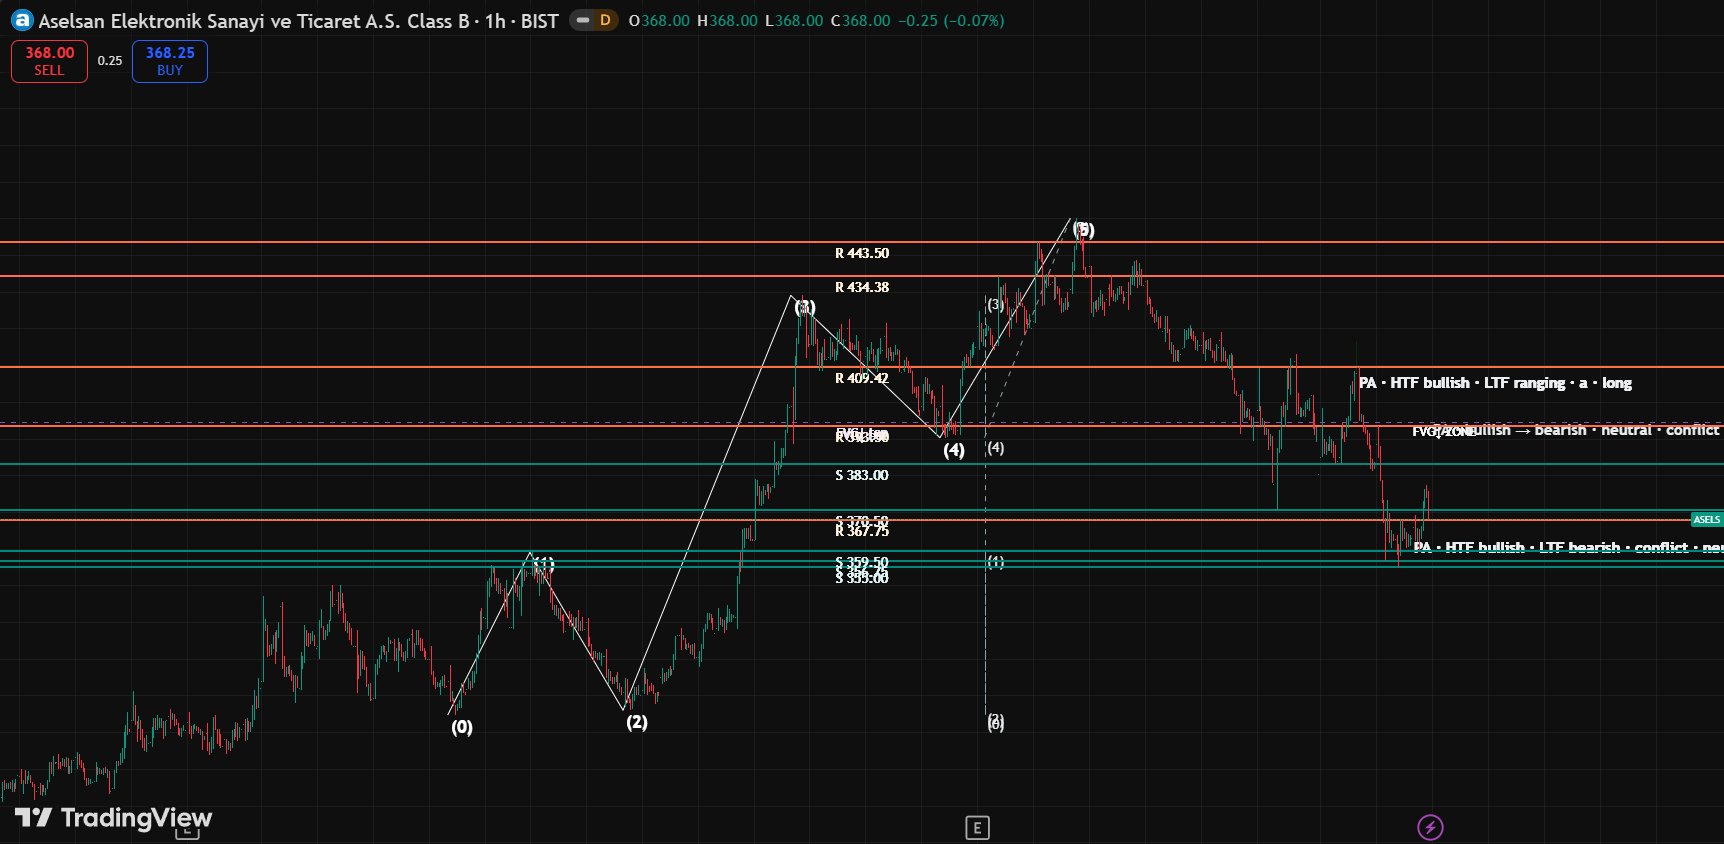
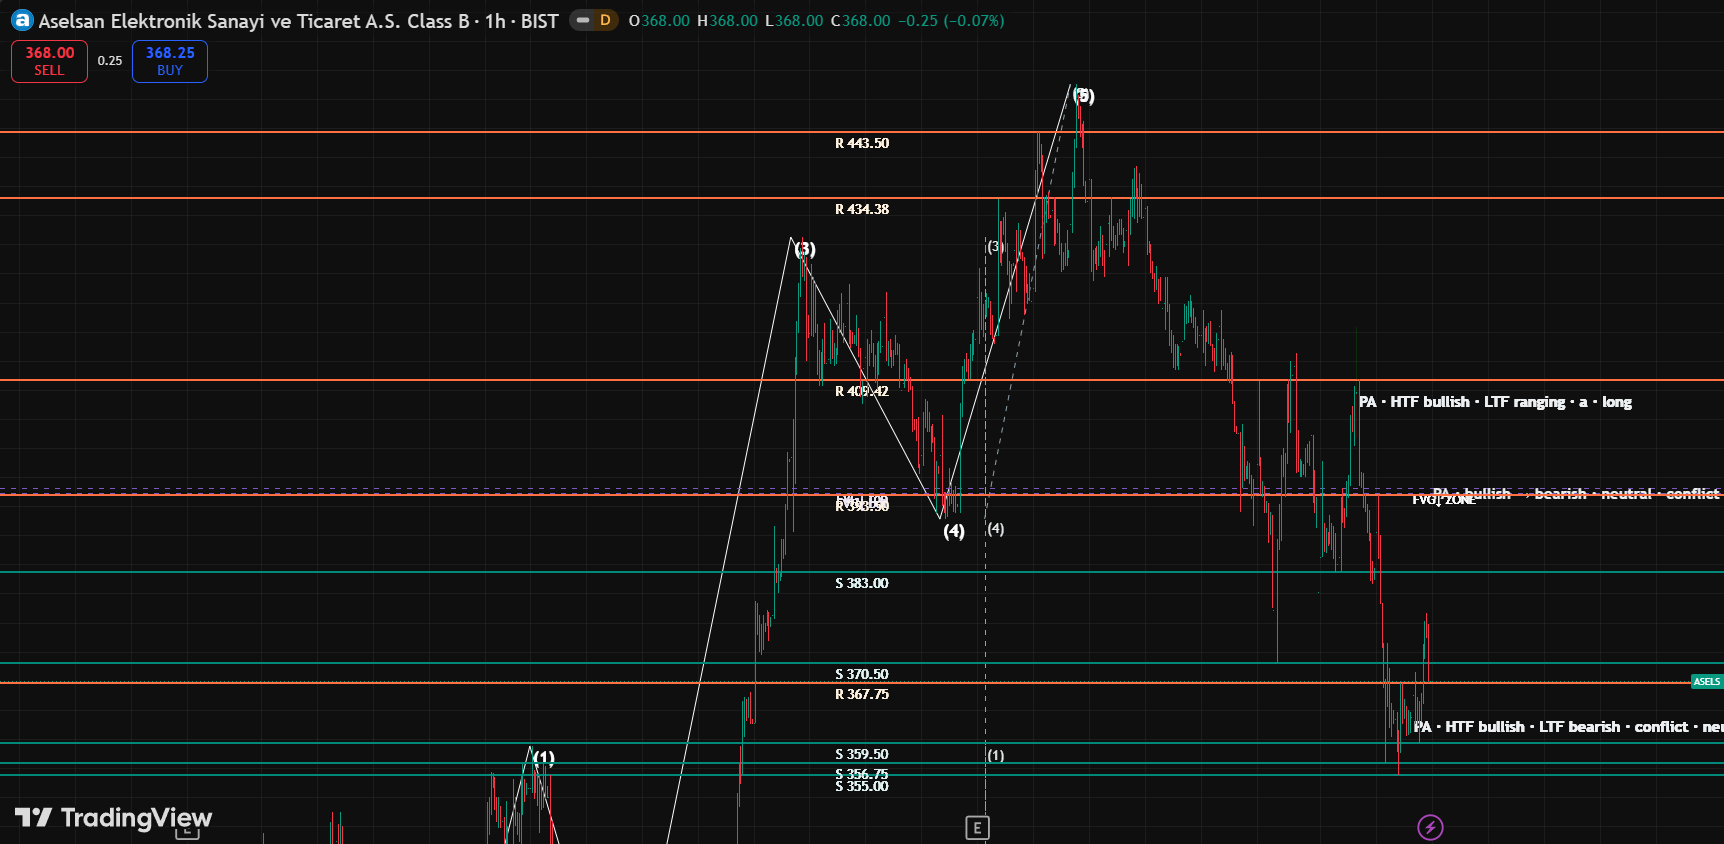
fix(visuals): Zoom in charts for clarity and restore concise text labels for readability

diff --git a/src/bist_trader_mcp/tv_bridge.py b/src/bist_trader_mcp/tv_bridge.py
@@ -538,7 +538,7 @@ def apply_pa_overlay_to_chart(
     for r in resistances:
         px = float(r["price"])
         line = tv_draw_horizontal_line(
-            t_anchor, px, overrides=overrides_json(PA_RESIST_LINE)
+            t_anchor, px, text="Res", overrides=overrides_json(PA_RESIST_LINE)
         )
         out["levels"].append(line)
         time.sleep(0.08)
@@ -546,7 +546,7 @@ def apply_pa_overlay_to_chart(
     for s in supports:
         px = float(s["price"])
         line = tv_draw_horizontal_line(
-            t_anchor, px, overrides=overrides_json(PA_SUPPORT_LINE)
+            t_anchor, px, text="Sup", overrides=overrides_json(PA_SUPPORT_LINE)
         )
         out["levels"].append(line)
         time.sleep(0.08)
@@ -557,13 +557,13 @@ def apply_pa_overlay_to_chart(
         rl = float(range_box["range_low"])
         rm = float(range_box.get("range_mid") or (rh + rl) / 2)
         for px, lbl, style in (
-            (rh, f"RNG H {rh:.2f}", PA_RANGE_HIGH),
-            (rl, f"RNG L {rl:.2f}", PA_RANGE_LOW),
-            (rm, f"EQ {rm:.2f}", PA_RANGE_MID),
+            (rh, "RNG H", PA_RANGE_HIGH),
+            (rl, "RNG L", PA_RANGE_LOW),
+            (rm, "EQ", PA_RANGE_MID),
         ):
             out["levels"].append(
                 tv_draw_horizontal_line(
-                    t_anchor, px, overrides=overrides_json(style)
+                    t_anchor, px, text=lbl, overrides=overrides_json(style)
                 )
             )
             time.sleep(0.06)

diff --git a/scripts/capture_linkedin_screenshots.py b/scripts/capture_linkedin_screenshots.py
@@ -82,10 +82,15 @@ def demo_draw(
     from bist_trader_mcp.market_profiles import resolve_assistant_config
     from bist_trader_mcp.tv_bridge import apply_scenario_to_chart, build_demo_position_plan
     from bist_trader_mcp.tv_tools import (
+        tv_apply_overrides,
         tv_fetch_mtf_ohlcv,
         tv_finalize_chart_view,
         tv_read_chart_bars,
+        tv_set_visible_range,
     )
+
+    # Apply basic overrides for clean visuals
+    tv_apply_overrides(chart_style)
 
     cfg = resolve_assistant_config(symbol, market=market)
     sym_tv = cfg["symbol_tv"]
@@ -179,6 +184,7 @@ def demo_draw(
         scroll_t = None
 
     tv_finalize_chart_view(sym_tv, ltf_tf, scroll_unix=scroll_t, wait_sec=2.5)
+    tv_set_visible_range(bars=80, offset=15)
 
     return {
         "symbol": symbol,